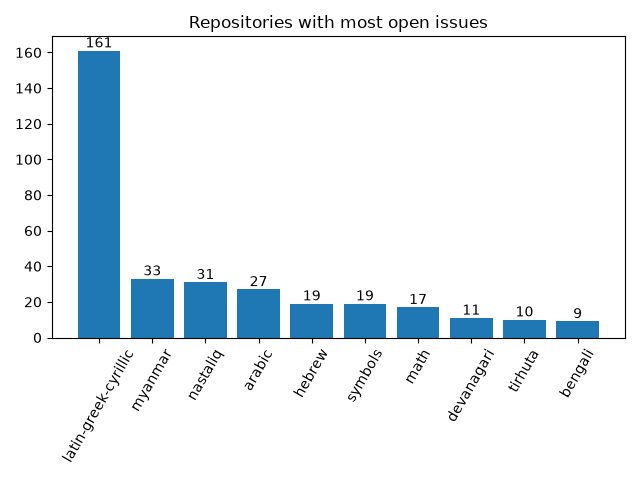
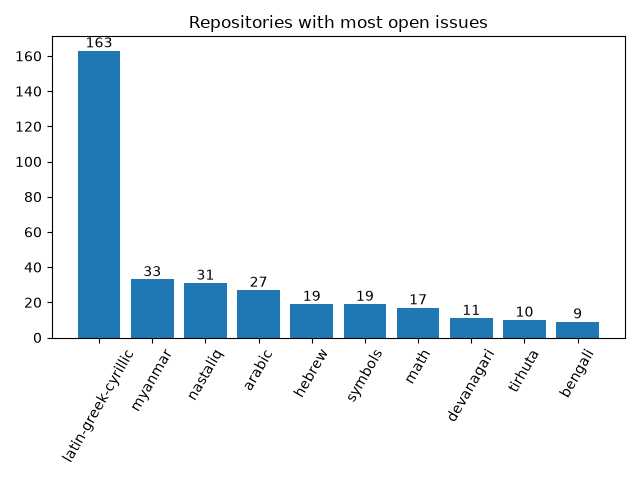
Apply automatic changes

diff --git a/docs/analytics.html b/docs/analytics.html
@@ -119,8 +119,8 @@ td .material-icons { display:inline-flex; vertical-align: top; font-size:1.1rem;
 						</tr>
 						<tr>
 							<td>Nov</td>
-							<td>4</td>
-							<td>2</td>
+							<td>12</td>
+							<td>6</td>
 						</tr>
 					</table>
 				</div>
@@ -140,7 +140,7 @@ td .material-icons { display:inline-flex; vertical-align: top; font-size:1.1rem;
 							<td>
 								<a href="http://github.com/notofonts/latin-greek-cyrillic/issues">latin-greek-cyrillic</a>
 							</td>
-							<td>161</td>
+							<td>163</td>
 						</tr>
 						<tr>
 							<td>
@@ -211,13 +211,13 @@ td .material-icons { display:inline-flex; vertical-align: top; font-size:1.1rem;
 				<tr>
 					<td>1</td>
 					<td>
-						<a href="http://github.com/notofonts/anatolian-hieroglyphs/issues">anatolian-hieroglyphs</a>,  						<a href="http://github.com/notofonts/chorasmian/issues">chorasmian</a>,  						<a href="http://github.com/notofonts/cuneiform/issues">cuneiform</a>,  						<a href="http://github.com/notofonts/elbasan/issues">elbasan</a>,  						<a href="http://github.com/notofonts/glagolitic/issues">glagolitic</a>,  						<a href="http://github.com/notofonts/gunjala-gondi/issues">gunjala-gondi</a>,  						<a href="http://github.com/notofonts/hanunoo/issues">hanunoo</a>,  						<a href="http://github.com/notofonts/inscriptional-pahlavi/issues">inscriptional-pahlavi</a>,  						<a href="http://github.com/notofonts/kharoshthi/issues">kharoshthi</a>,  						<a href="http://github.com/notofonts/khitan-small-script/issues">khitan-small-script</a>,  						<a href="http://github.com/notofonts/khudawadi/issues">khudawadi</a>,  						<a href="http://github.com/notofonts/masaram-gondi/issues">masaram-gondi</a>,  						<a href="http://github.com/notofonts/meetei-mayek/issues">meetei-mayek</a>,  						<a href="http://github.com/notofonts/miao/issues">miao</a>,  						<a href="http://github.com/notofonts/music/issues">music</a>,  						<a href="http://github.com/notofonts/nag-mundari/issues">nag-mundari</a>,  						<a href="http://github.com/notofonts/nko/issues">nko</a>,  						<a href="http://github.com/notofonts/nushu/issues">nushu</a>,  						<a href="http://github.com/notofonts/old-italic/issues">old-italic</a>,  						<a href="http://github.com/notofonts/old-turkic/issues">old-turkic</a>,  						<a href="http://github.com/notofonts/old-uyghur/issues">old-uyghur</a>,  						<a href="http://github.com/notofonts/osmanya/issues">osmanya</a>,  						<a href="http://github.com/notofonts/phags-pa/issues">phags-pa</a>,  						<a href="http://github.com/notofonts/psalter-pahlavi/issues">psalter-pahlavi</a>,  						<a href="http://github.com/notofonts/rejang/issues">rejang</a>,  						<a href="http://github.com/notofonts/runic/issues">runic</a>,  						<a href="http://github.com/notofonts/saurashtra/issues">saurashtra</a>,  						<a href="http://github.com/notofonts/sinhala/issues">sinhala</a>,  						<a href="http://github.com/notofonts/sogdian/issues">sogdian</a>,  						<a href="http://github.com/notofonts/tai-tham/issues">tai-tham</a>,  						<a href="http://github.com/notofonts/tai-viet/issues">tai-viet</a>,  						<a href="http://github.com/notofonts/takri/issues">takri</a>,  						<a href="http://github.com/notofonts/tangsa/issues">tangsa</a>,  						<a href="http://github.com/notofonts/vai/issues">vai</a> 
+						<a href="http://github.com/notofonts/anatolian-hieroglyphs/issues">anatolian-hieroglyphs</a>,  						<a href="http://github.com/notofonts/chorasmian/issues">chorasmian</a>,  						<a href="http://github.com/notofonts/cuneiform/issues">cuneiform</a>,  						<a href="http://github.com/notofonts/elbasan/issues">elbasan</a>,  						<a href="http://github.com/notofonts/glagolitic/issues">glagolitic</a>,  						<a href="http://github.com/notofonts/grantha/issues">grantha</a>,  						<a href="http://github.com/notofonts/gunjala-gondi/issues">gunjala-gondi</a>,  						<a href="http://github.com/notofonts/hanunoo/issues">hanunoo</a>,  						<a href="http://github.com/notofonts/inscriptional-pahlavi/issues">inscriptional-pahlavi</a>,  						<a href="http://github.com/notofonts/kharoshthi/issues">kharoshthi</a>,  						<a href="http://github.com/notofonts/khitan-small-script/issues">khitan-small-script</a>,  						<a href="http://github.com/notofonts/khudawadi/issues">khudawadi</a>,  						<a href="http://github.com/notofonts/masaram-gondi/issues">masaram-gondi</a>,  						<a href="http://github.com/notofonts/meetei-mayek/issues">meetei-mayek</a>,  						<a href="http://github.com/notofonts/miao/issues">miao</a>,  						<a href="http://github.com/notofonts/music/issues">music</a>,  						<a href="http://github.com/notofonts/nag-mundari/issues">nag-mundari</a>,  						<a href="http://github.com/notofonts/nko/issues">nko</a>,  						<a href="http://github.com/notofonts/nushu/issues">nushu</a>,  						<a href="http://github.com/notofonts/old-italic/issues">old-italic</a>,  						<a href="http://github.com/notofonts/old-turkic/issues">old-turkic</a>,  						<a href="http://github.com/notofonts/old-uyghur/issues">old-uyghur</a>,  						<a href="http://github.com/notofonts/osmanya/issues">osmanya</a>,  						<a href="http://github.com/notofonts/phags-pa/issues">phags-pa</a>,  						<a href="http://github.com/notofonts/psalter-pahlavi/issues">psalter-pahlavi</a>,  						<a href="http://github.com/notofonts/rejang/issues">rejang</a>,  						<a href="http://github.com/notofonts/runic/issues">runic</a>,  						<a href="http://github.com/notofonts/saurashtra/issues">saurashtra</a>,  						<a href="http://github.com/notofonts/sinhala/issues">sinhala</a>,  						<a href="http://github.com/notofonts/sogdian/issues">sogdian</a>,  						<a href="http://github.com/notofonts/tai-tham/issues">tai-tham</a>,  						<a href="http://github.com/notofonts/tai-viet/issues">tai-viet</a>,  						<a href="http://github.com/notofonts/takri/issues">takri</a>,  						<a href="http://github.com/notofonts/tangsa/issues">tangsa</a>,  						<a href="http://github.com/notofonts/vai/issues">vai</a> 
 					</td>
 				</tr>
 				<tr>
 					<td>2</td>
 					<td>
-						<a href="http://github.com/notofonts/armenian/issues">armenian</a>,  						<a href="http://github.com/notofonts/chakma/issues">chakma</a>,  						<a href="http://github.com/notofonts/dogra/issues">dogra</a>,  						<a href="http://github.com/notofonts/duployan/issues">duployan</a>,  						<a href="http://github.com/notofonts/khojki/issues">khojki</a>,  						<a href="http://github.com/notofonts/lao/issues">lao</a>,  						<a href="http://github.com/notofonts/limbu/issues">limbu</a>,  						<a href="http://github.com/notofonts/mandaic/issues">mandaic</a>,  						<a href="http://github.com/notofonts/mongolian/issues">mongolian</a>,  						<a href="http://github.com/notofonts/old-hungarian-ui/issues">old-hungarian-ui</a>,  						<a href="http://github.com/notofonts/pau-cin-hau/issues">pau-cin-hau</a>,  						<a href="http://github.com/notofonts/tagalog/issues">tagalog</a>,  						<a href="http://github.com/notofonts/tamil/issues">tamil</a>,  						<a href="http://github.com/notofonts/yi/issues">yi</a> 
+						<a href="http://github.com/notofonts/armenian/issues">armenian</a>,  						<a href="http://github.com/notofonts/chakma/issues">chakma</a>,  						<a href="http://github.com/notofonts/dogra/issues">dogra</a>,  						<a href="http://github.com/notofonts/duployan/issues">duployan</a>,  						<a href="http://github.com/notofonts/khojki/issues">khojki</a>,  						<a href="http://github.com/notofonts/lao/issues">lao</a>,  						<a href="http://github.com/notofonts/limbu/issues">limbu</a>,  						<a href="http://github.com/notofonts/mandaic/issues">mandaic</a>,  						<a href="http://github.com/notofonts/old-hungarian-ui/issues">old-hungarian-ui</a>,  						<a href="http://github.com/notofonts/pau-cin-hau/issues">pau-cin-hau</a>,  						<a href="http://github.com/notofonts/tagalog/issues">tagalog</a>,  						<a href="http://github.com/notofonts/tamil/issues">tamil</a>,  						<a href="http://github.com/notofonts/yi/issues">yi</a> 
 					</td>
 				</tr>
 				<tr>
@@ -229,7 +229,7 @@ td .material-icons { display:inline-flex; vertical-align: top; font-size:1.1rem;
 				<tr>
 					<td>4</td>
 					<td>
-						<a href="http://github.com/notofonts/adlam/issues">adlam</a>,  						<a href="http://github.com/notofonts/balinese/issues">balinese</a>,  						<a href="http://github.com/notofonts/batak/issues">batak</a>,  						<a href="http://github.com/notofonts/brahmi/issues">brahmi</a>,  						<a href="http://github.com/notofonts/coptic/issues">coptic</a>,  						<a href="http://github.com/notofonts/khmer/issues">khmer</a>,  						<a href="http://github.com/notofonts/siddham/issues">siddham</a>,  						<a href="http://github.com/notofonts/soyombo/issues">soyombo</a>,  						<a href="http://github.com/notofonts/sundanese/issues">sundanese</a>,  						<a href="http://github.com/notofonts/telugu/issues">telugu</a>,  						<a href="http://github.com/notofonts/thaana/issues">thaana</a> 
+						<a href="http://github.com/notofonts/adlam/issues">adlam</a>,  						<a href="http://github.com/notofonts/balinese/issues">balinese</a>,  						<a href="http://github.com/notofonts/batak/issues">batak</a>,  						<a href="http://github.com/notofonts/brahmi/issues">brahmi</a>,  						<a href="http://github.com/notofonts/coptic/issues">coptic</a>,  						<a href="http://github.com/notofonts/khmer/issues">khmer</a>,  						<a href="http://github.com/notofonts/mongolian/issues">mongolian</a>,  						<a href="http://github.com/notofonts/siddham/issues">siddham</a>,  						<a href="http://github.com/notofonts/soyombo/issues">soyombo</a>,  						<a href="http://github.com/notofonts/sundanese/issues">sundanese</a>,  						<a href="http://github.com/notofonts/telugu/issues">telugu</a>,  						<a href="http://github.com/notofonts/thaana/issues">thaana</a> 
 					</td>
 				</tr>
 				<tr>
@@ -253,13 +253,13 @@ td .material-icons { display:inline-flex; vertical-align: top; font-size:1.1rem;
 				<tr>
 					<td>8</td>
 					<td>
-						<a href="http://github.com/notofonts/canadian-aboriginal/issues">canadian-aboriginal</a>,  						<a href="http://github.com/notofonts/dives-akuru/issues">dives-akuru</a>,  						<a href="http://github.com/notofonts/hentaigana/issues">hentaigana</a>,  						<a href="http://github.com/notofonts/kannada/issues">kannada</a> 
+						<a href="http://github.com/notofonts/canadian-aboriginal/issues">canadian-aboriginal</a>,  						<a href="http://github.com/notofonts/dives-akuru/issues">dives-akuru</a>,  						<a href="http://github.com/notofonts/egyptian-hieroglyphs/issues">egyptian-hieroglyphs</a>,  						<a href="http://github.com/notofonts/hentaigana/issues">hentaigana</a>,  						<a href="http://github.com/notofonts/kannada/issues">kannada</a> 
 					</td>
 				</tr>
 				<tr>
 					<td>9</td>
 					<td>
-						<a href="http://github.com/notofonts/bengali/issues">bengali</a>,  						<a href="http://github.com/notofonts/egyptian-hieroglyphs/issues">egyptian-hieroglyphs</a>,  						<a href="http://github.com/notofonts/syriac/issues">syriac</a> 
+						<a href="http://github.com/notofonts/bengali/issues">bengali</a>,  						<a href="http://github.com/notofonts/syriac/issues">syriac</a> 
 					</td>
 				</tr>
 				<tr>
@@ -280,7 +280,7 @@ td .material-icons { display:inline-flex; vertical-align: top; font-size:1.1rem;
 						<tr>
 							<td>1</td>
 							<td>
-									<a href="http://github.com/notofonts/latin-greek-cyrillic/issues">latin-greek-cyrillic</a>: 161, 
+									<a href="http://github.com/notofonts/latin-greek-cyrillic/issues">latin-greek-cyrillic</a>: 163, 
 
 									<a href="http://github.com/notofonts/nastaliq/issues">nastaliq</a>: 31, 
 
@@ -362,6 +362,8 @@ td .material-icons { display:inline-flex; vertical-align: top; font-size:1.1rem;
 
 									<a href="http://github.com/notofonts/coptic/issues">coptic</a>: 4, 
 
+									<a href="http://github.com/notofonts/mongolian/issues">mongolian</a>: 4, 
+
 									<a href="http://github.com/notofonts/siddham/issues">siddham</a>: 4, 
 
 									<a href="http://github.com/notofonts/sundanese/issues">sundanese</a>: 4, 
@@ -377,8 +379,6 @@ td .material-icons { display:inline-flex; vertical-align: top; font-size:1.1rem;
 									<a href="http://github.com/notofonts/khojki/issues">khojki</a>: 2, 
 
 									<a href="http://github.com/notofonts/lao/issues">lao</a>: 2, 
-
-									<a href="http://github.com/notofonts/mongolian/issues">mongolian</a>: 2, 
 
 									<a href="http://github.com/notofonts/pau-cin-hau/issues">pau-cin-hau</a>: 2, 
 
@@ -424,7 +424,7 @@ td .material-icons { display:inline-flex; vertical-align: top; font-size:1.1rem;
 							<td>
 									<a href="http://github.com/notofonts/tirhuta/issues">tirhuta</a>: 10, 
 
-									<a href="http://github.com/notofonts/egyptian-hieroglyphs/issues">egyptian-hieroglyphs</a>: 9, 
+									<a href="http://github.com/notofonts/egyptian-hieroglyphs/issues">egyptian-hieroglyphs</a>: 8, 
 
 									<a href="http://github.com/notofonts/old-hungarian/issues">old-hungarian</a>: 7, 
 
@@ -449,6 +449,8 @@ td .material-icons { display:inline-flex; vertical-align: top; font-size:1.1rem;
 									<a href="http://github.com/notofonts/cuneiform/issues">cuneiform</a>: 1, 
 
 									<a href="http://github.com/notofonts/glagolitic/issues">glagolitic</a>: 1, 
+
+									<a href="http://github.com/notofonts/grantha/issues">grantha</a>: 1, 
 
 									<a href="http://github.com/notofonts/khudawadi/issues">khudawadi</a>: 1, 
 
